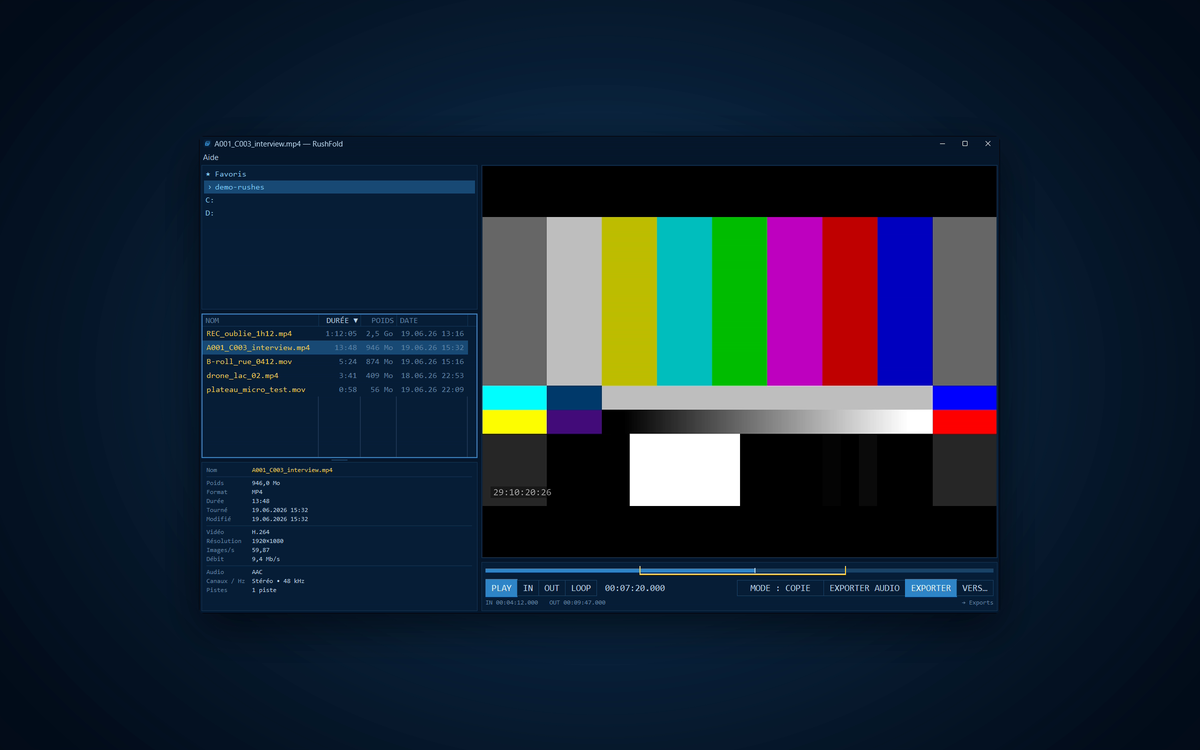
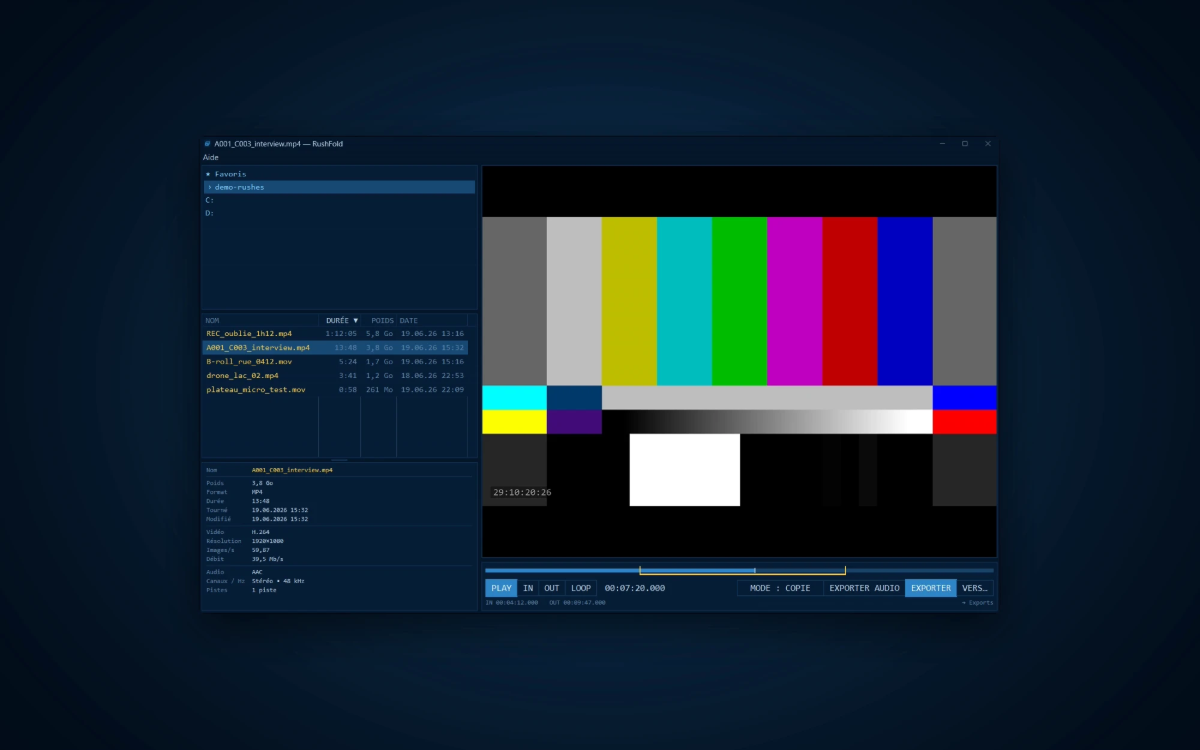
Nouvelle capture de démo RushFold (WebP 1200 et 2000 px)

diff --git a/index.html b/index.html
@@ -217,7 +217,7 @@ footer .links{display:flex;gap:18px;flex-wrap:wrap}
     </div>
 
     <picture>
-      <source type="image/webp" srcset="rushfold-hero-1200.webp">
+      <source type="image/webp" srcset="rushfold-hero-1200.webp 1200w, rushfold-hero-2000.webp 2000w" sizes="(min-width:1072px) 1040px, calc(100vw - 32px)">
       <img src="rushfold-hero-1200.png" width="1200" height="750" alt="RushFold : explorateur de rushes, barre IN/OUT et export sans perte" fetchpriority="high">
     </picture>
   </div>

diff --git a/CLAUDE.md b/CLAUDE.md
@@ -24,7 +24,7 @@ Ces règles passent avant tout le reste, à chaque modification.
 |---|---|
 | `index.html` | Tout le site : accueil, page RushFold, page Merci, CSS, JS, favicon. |
 | `fonts/` (3 fichiers woff2) | Polices du design, réduites aux graisses et caractères utilisés (88 Ko au total). Hébergées ici plutôt que chez Google pour la vie privée des visiteurs. Les intégrer dans le HTML alourdirait la page d'un tiers. |
-| `rushfold-hero-1200.*` (1 WebP + 1 PNG) | Capture de l'app affichée en tête de la page RushFold. Le navigateur charge le WebP (26 Ko) ; le PNG (134 Ko) n'est qu'un secours pour les très vieux navigateurs. Une image ne peut pas être intégrée au HTML sans l'alourdir. |
+| `rushfold-hero-*` (2 WebP + 1 PNG) | Capture de l'app affichée en tête de la page RushFold. Le navigateur charge un WebP (24 Ko en 1200 px, 49 Ko en 2000 px) ; le PNG (247 Ko) n'est qu'un secours pour les très vieux navigateurs. Une image ne peut pas être intégrée au HTML sans l'alourdir. |
 | `.nojekyll` | Fichier vide : GitHub Pages sert les fichiers tels quels, sans étape de build. |
 | `CLAUDE.md` | Ce document. Public dans le dépôt : n'y écris jamais rien de confidentiel. |
 
@@ -51,7 +51,7 @@ Tu endosses chacun de ces rôles selon la tâche. Avant de livrer, passe ta modi
 - Responsive : aucun défilement horizontal à 400 px de large.
 
 ### 3. Performance
-- **Budget : 150 Ko** pour la page complète (actuellement environ 125 Ko sur la page RushFold : polices 88 Ko, image WebP 26 Ko, HTML compressé environ 9 Ko).
+- **Budget : 150 Ko** pour la page complète (actuellement environ 145 Ko sur la page RushFold : polices 88 Ko, image WebP 49 Ko, HTML compressé environ 9 Ko).
 - Aucune ressource externe : pas de CDN, pas de Google Fonts, pas de script tiers.
 - Polices : `font-display: swap`, préchargement des deux principales, aucune nouvelle police.
 - Images futures : WebP ou AVIF, `width`/`height` fixés, `loading="lazy"` hors du premier écran.
